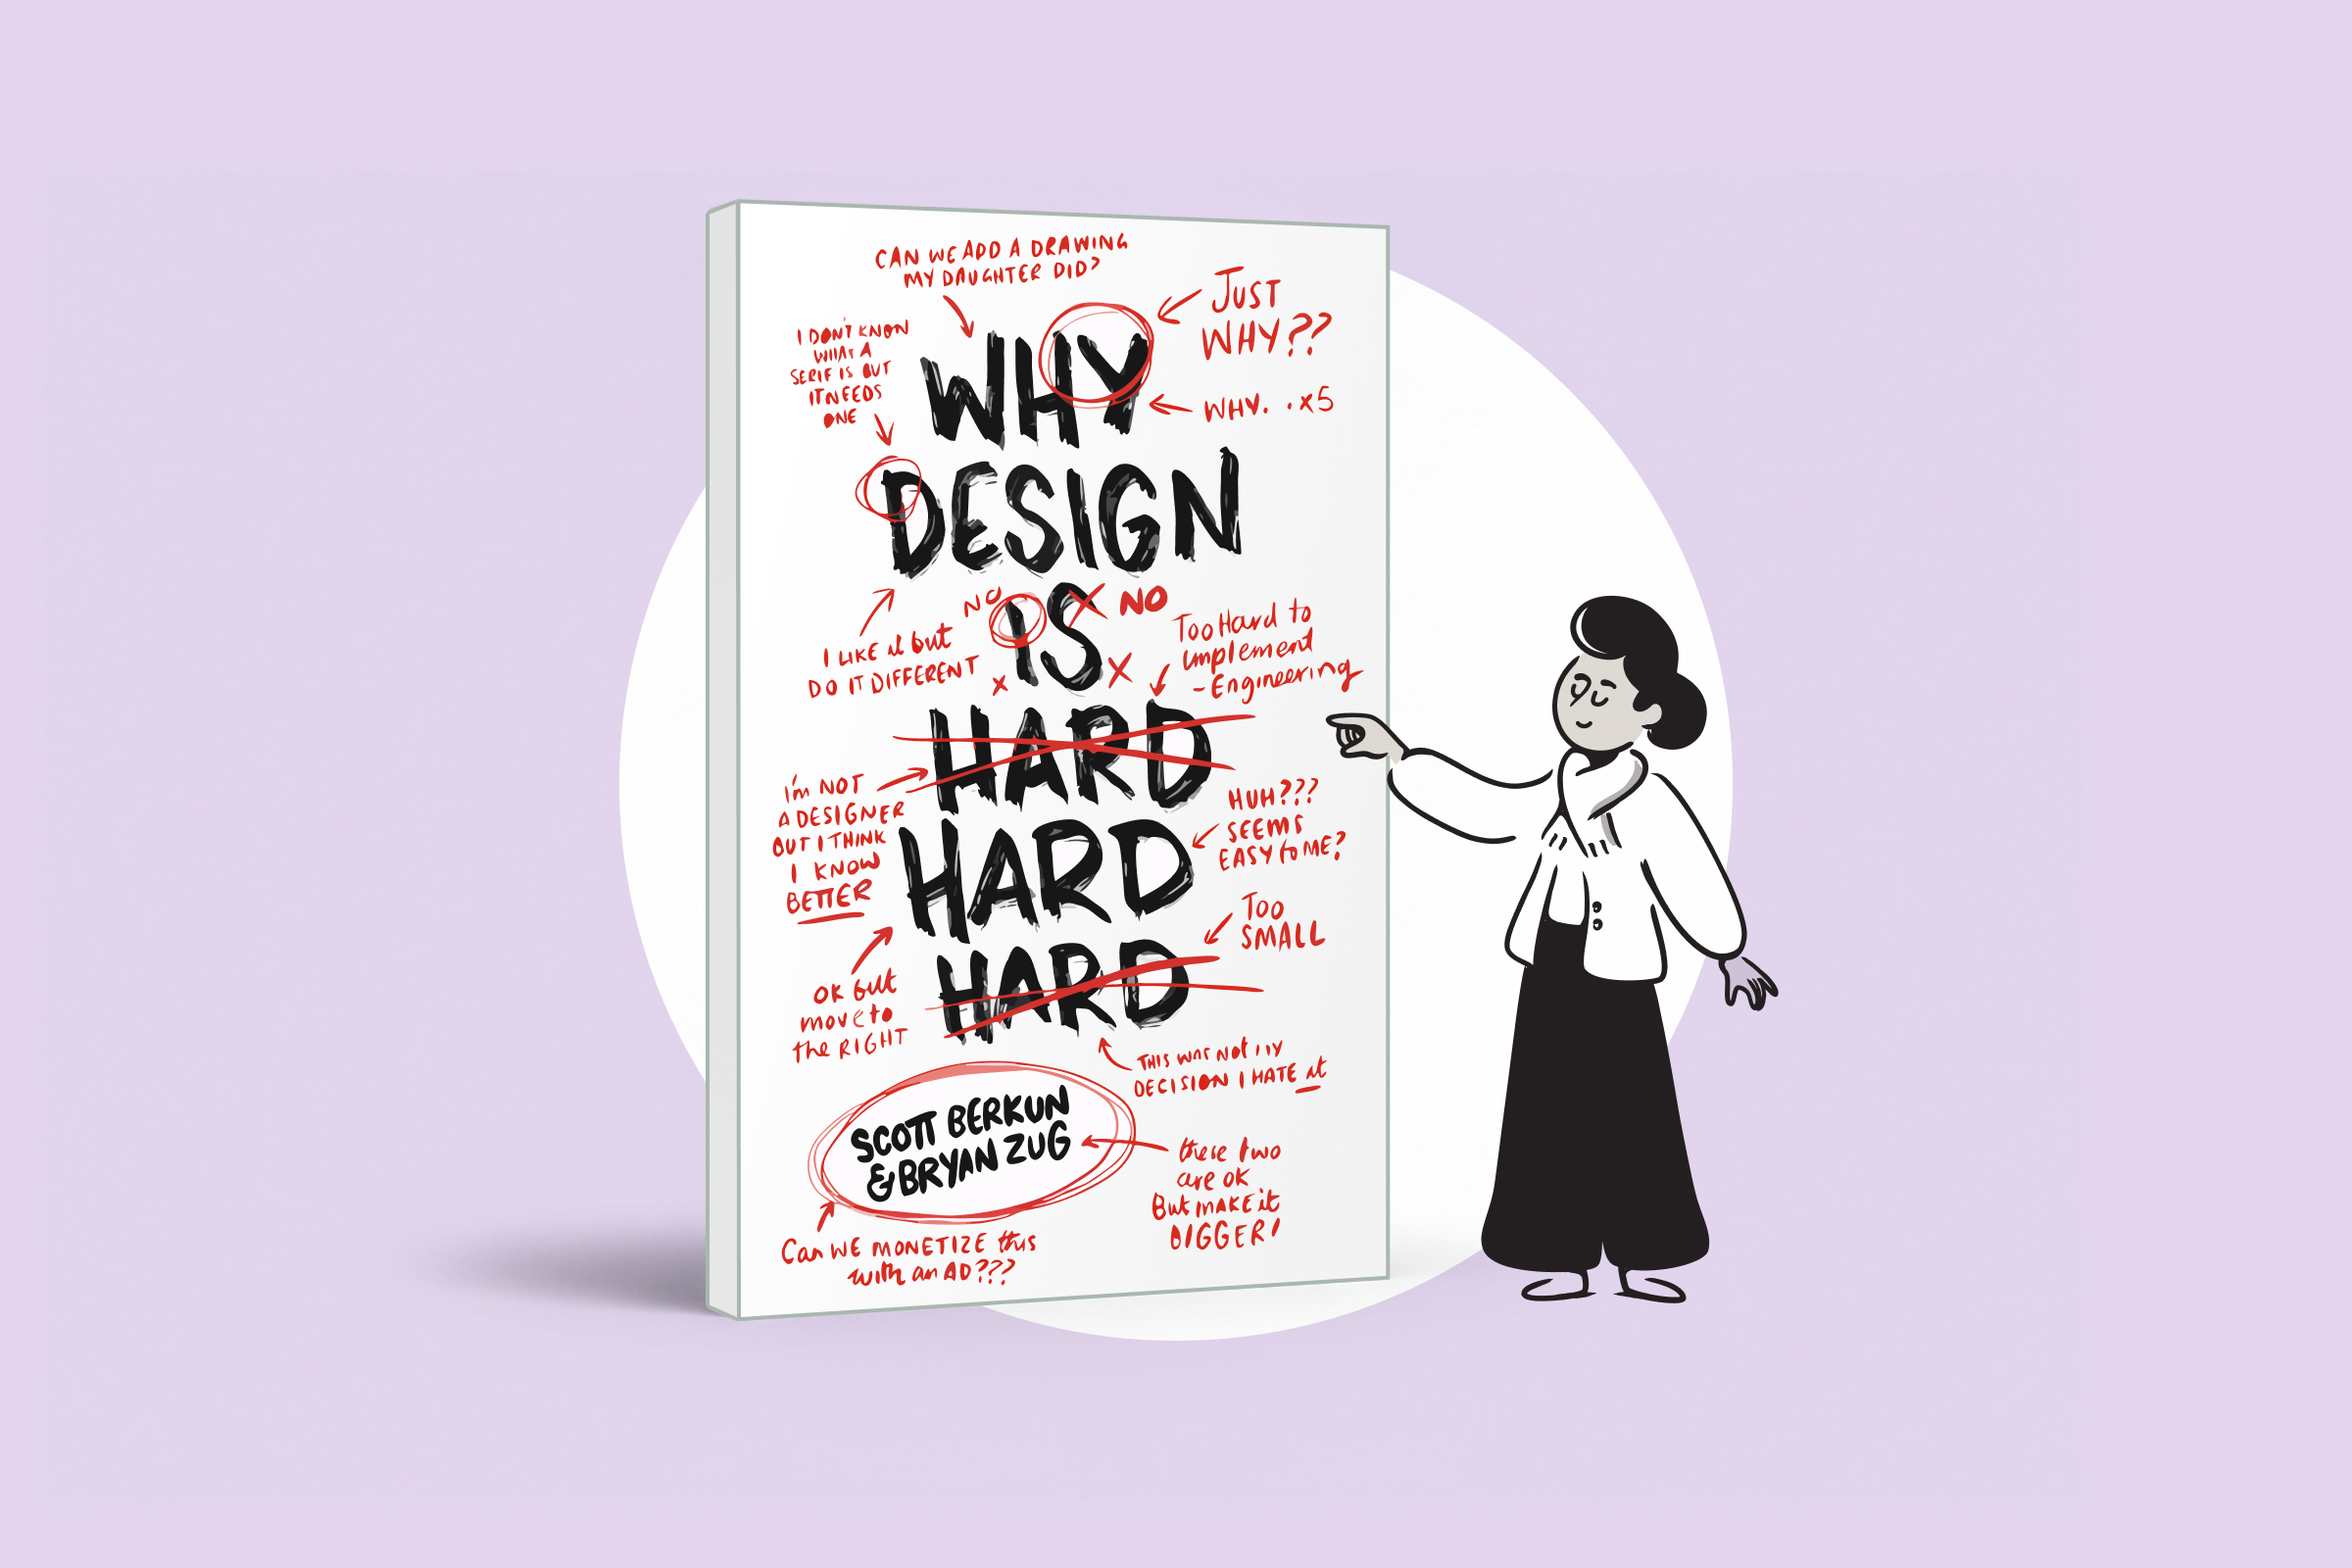
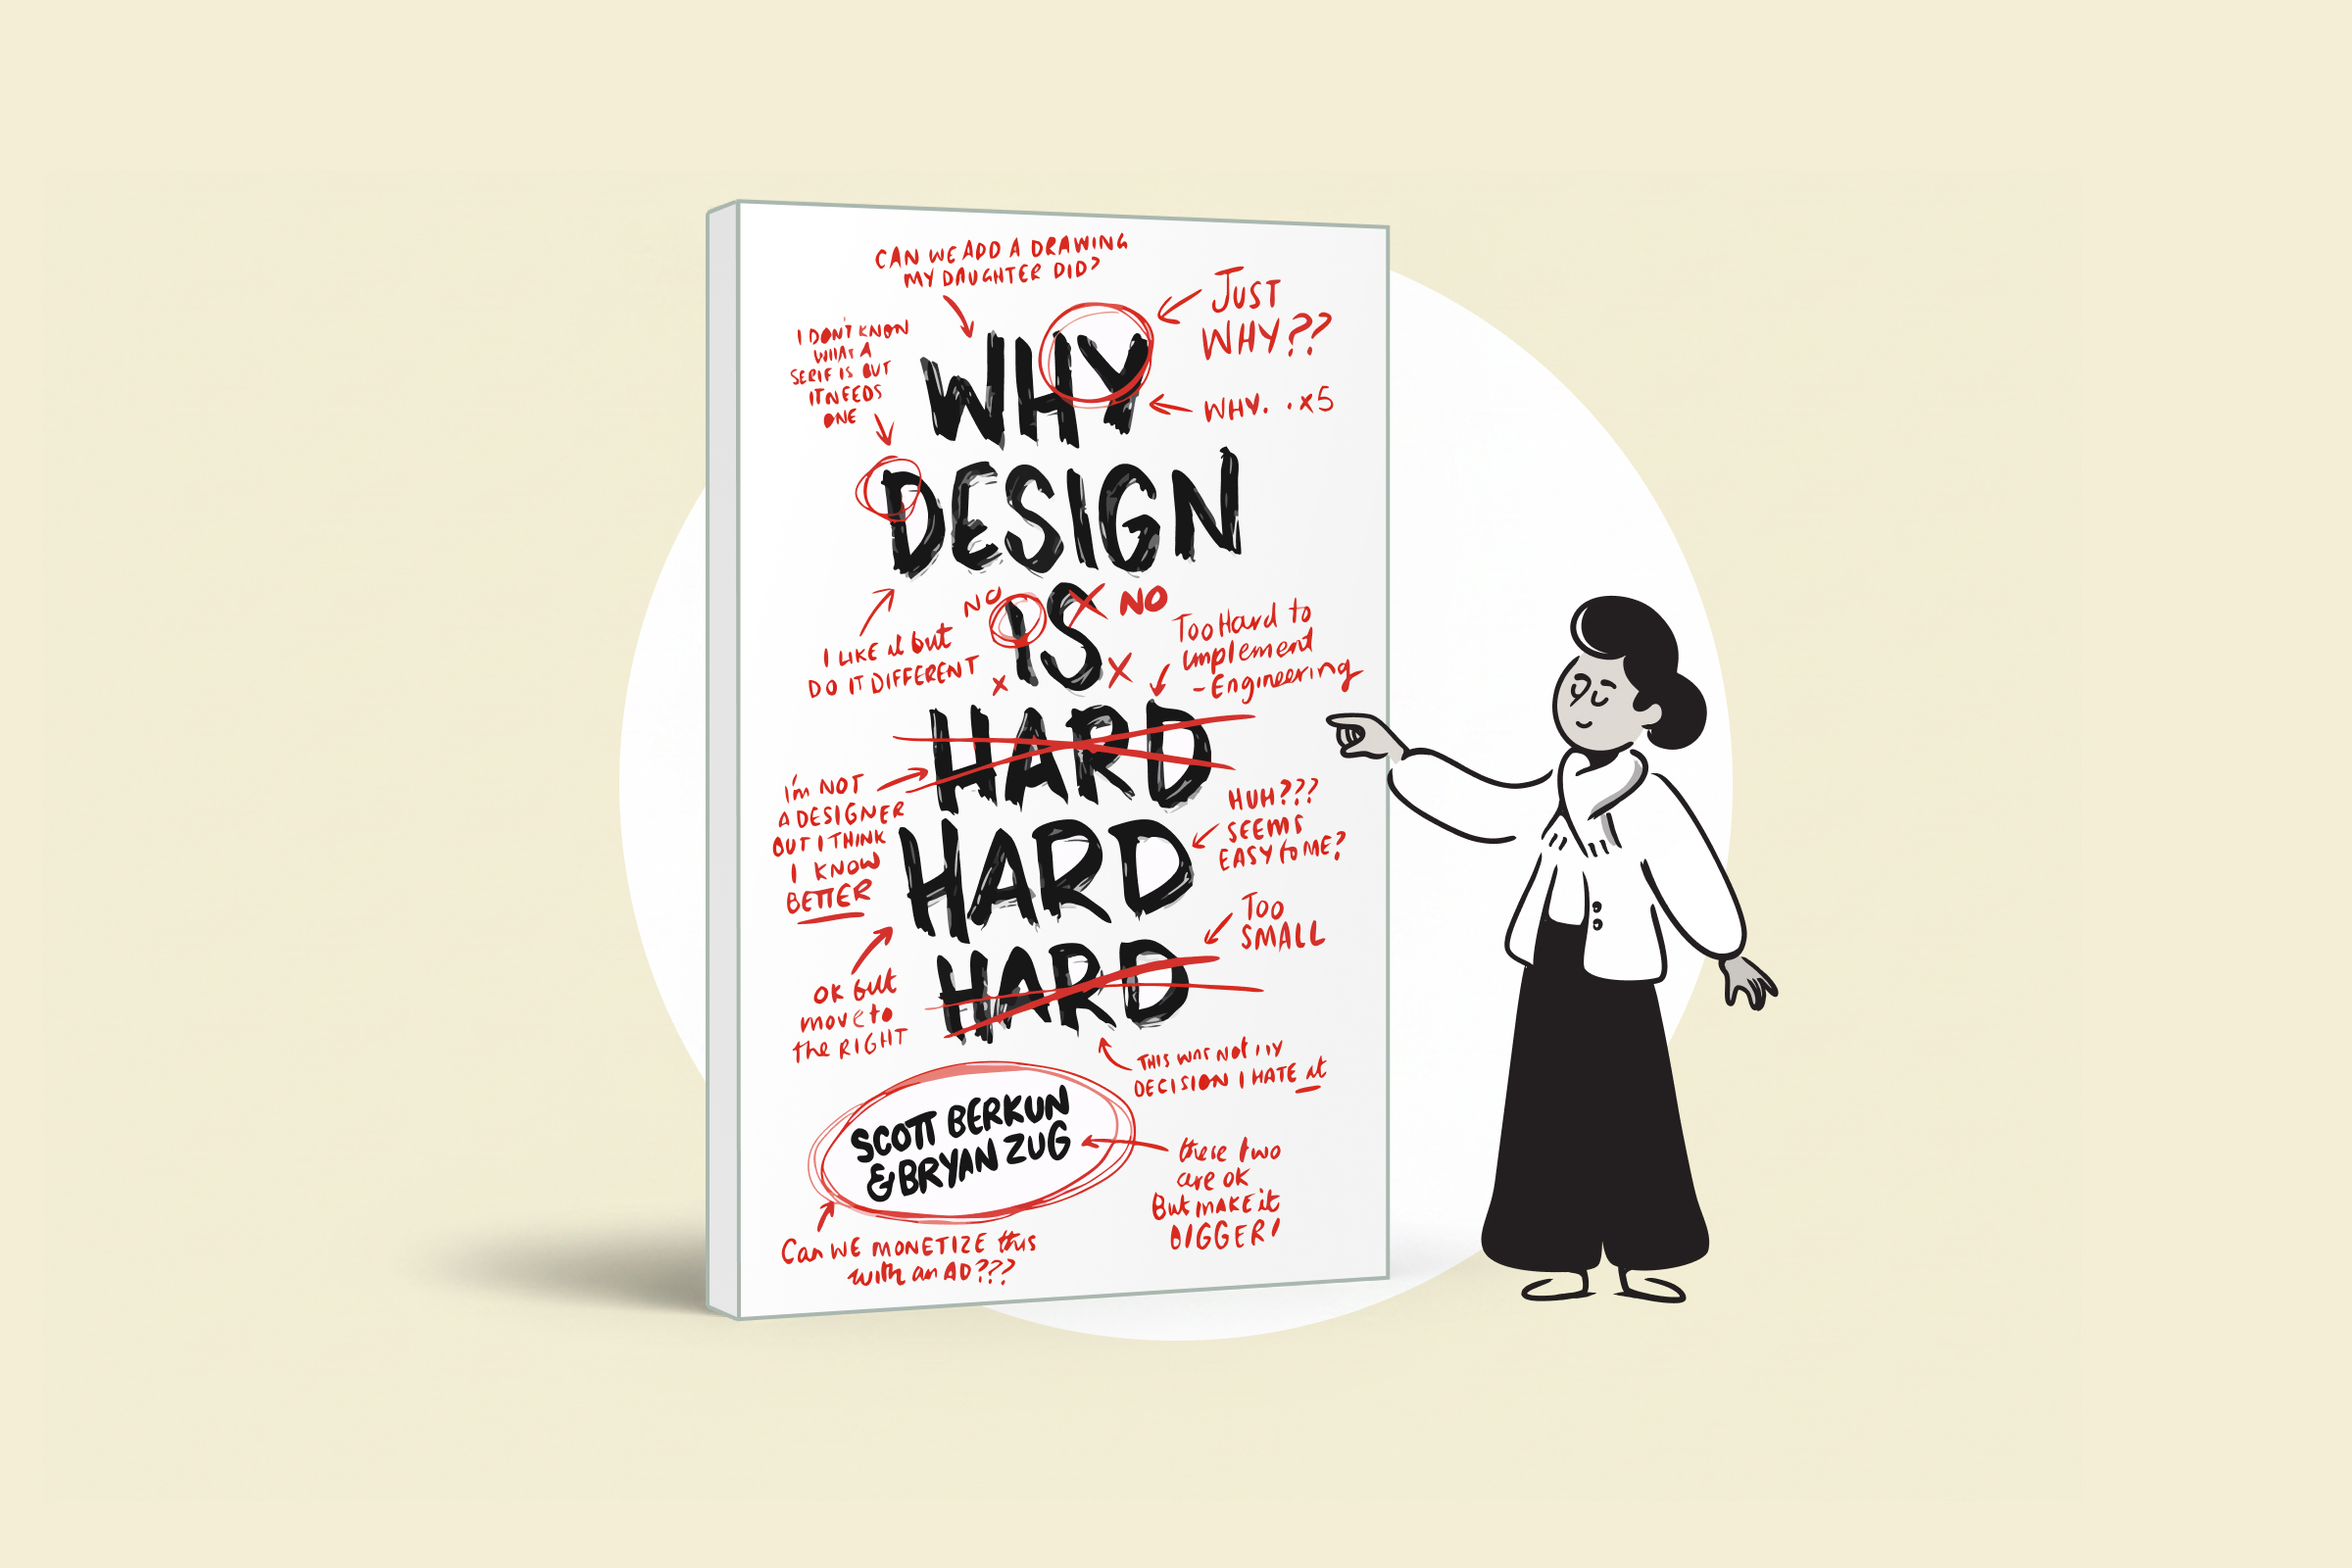
Copy edits and better images. Also fixed Android nav bug.

diff --git a/src/app/globals.css b/src/app/globals.css
@@ -671,6 +671,16 @@ nav.site-nav-bar {
   margin: 0 0 2rem 0;
   border-bottom: 1px solid #b7ddc8;
   overflow-x: auto;
+  /* `overflow-x: auto` promotes `overflow-y` from `visible` to `auto`
+     per the CSS overflow spec, and the active-tab underline
+     pseudo-element (`bottom: -1px; height: 3px`) intentionally
+     protrudes 1px below the link — enough for Chrome mobile touch
+     scroll heuristics to register a scrollable vertical axis and
+     allow a few-pixel finger drag. Locking overflow-y to hidden
+     clips only the padding-box; the border-bottom sits outside it,
+     so the intentional 1px overlap between underline and border
+     still renders identically. */
+  overflow-y: hidden;
   -webkit-overflow-scrolling: touch;
   scrollbar-width: none;
 }

diff --git a/src/app/articles/[slug]/page.tsx b/src/app/articles/[slug]/page.tsx
@@ -32,6 +32,7 @@ export const revalidate = 3600;
 // past the first three serve as backfill when the current article is
 // itself one of the picks (so the rail always shows three cards).
 const TOP_ARTICLE_SLUGS = [
+  'books-designers-hard-problems',
   'hard-problems-explained',
   'use-a-spreadsheet-to-choose-your-next-role',
   'join-nonprofit-board-or-advisory-group',

diff --git a/content/articles/why-design-is-hard.md b/content/articles/why-design-is-hard.md
@@ -1,5 +1,5 @@
 ---
-title: '_Why Design is Hard_ by Scott Berkun and Bryan Zug'
+title: '_Why Design Is Hard_ by Scott Berkun and Bryan Zug'
 slug: 'why-design-is-hard'
 
 excerpt: "A sharp, practical guide to thriving as a designer inside any organization, with particular resonance for those working on society's toughest challenges."
@@ -8,7 +8,7 @@ author: 'Daniel Burka'
 authorSlug: 'daniel-burka'
 
 publishedAt: '2026-08-11'
-updatedAt: '2026-08-11'
+updatedAt: '2026-08-12'
 
 status: 'published' # draft | review | published
 
@@ -25,48 +25,52 @@ people:
   - Scott Berkun
   - Bryan Zug
 
-readingTime: 4
+readingTime: 5
 
 featured: false
 
 image: '/images/content/thumb-why-design-is-hard.jpg'
-imageAlt: 'Cover of Why Design is Hard by Scott Berkun and Bryan Zug'
+imageAlt: 'Cover of Why Design Is Hard by Scott Berkun and Bryan Zug'
 
-seoTitle: 'Why Design is Hard by Scott Berkun and Bryan Zug — A Book Review'
-seoDescription: "Scott Berkun and Bryan Zug's Why Design is Hard is a short, sharp guide to building the influence designers need to ship great work — especially in organizations tackling hard problems."
+seoTitle: 'Why Design Is Hard by Scott Berkun and Bryan Zug — A Book Review'
+seoDescription: "Scott Berkun and Bryan Zug's Why Design Is Hard is a short, sharp guide to building the influence designers need to ship great work — especially in organizations tackling hard problems."
 
 canonicalUrl: ''
 ---
 
-# _Why Design is Hard_ by Scott Berkun and Bryan Zug {#why-design-is-hard}
+# _Why Design Is Hard_ by Scott Berkun and Bryan Zug {#why-design-is-hard}
 
 _A sharp, practical guide to thriving as a designer inside any organization, with particular resonance for those working on society's toughest challenges._{.intro}
 
-![Cover of Why Design is Hard by Scott Berkun and Bryan Zug](/images/content/illustration-book-why-design-is-hard-inline.jpg){.float-right}
+![Cover of Why Design Is Hard by Scott Berkun and Bryan Zug](/images/content/illustration-book-why-design-is-hard-inline.jpg){.float-right}
 
-Books should get more credit for being short and to-the-point. I flew through _[Why Design is Hard](https://scottberkun.com/why-design-is-hard/)_ in just two days. It packs a lot of great advice into 100 pages.
+Books should get more credit for being short and to the point. I flew through _[Why Design Is Hard](https://scottberkun.com/why-design-is-hard/)_ in just two days. It packs a lot of great advice into 100 pages.
 
-As you probably have already figured out in your design career, creating great designs is a surprisingly small part of the job. You can create excellent solutions, but if you don't have the influence and buy-in within your organization to ship those designs, it hardly matters. The authors do a great job breaking down where influence comes from in many organizations and how you can build up your own power to ship great design work.
+As you probably have already figured out in your design career, creating great designs is a surprisingly small part of the job. You can create excellent solutions, but if you don't have the influence and buy-in within your organization to ship, it hardly matters. The authors of _Why Design Is Hard_ do a great job breaking down where true influence comes from in many organizations and how you can build up your own power to ship great design work.
 
 ## Selling good design is important {#selling-good-design-is-important}
 
-The authors make a strong case that selling your design work is part of the design process. You might come up with the perfect solution in 10 minutes, but you'll likely spend the next 2 months getting everyone to agree that it's the right solution. To be a great designer, you need to be good at selling your work and you need to be excellent at working cross-functionally with everyone else in your organization to do great design work together.
+The authors make a strong case that selling your design work is part of the design process. You might come up with the perfect solution in 10 minutes, but you'll spend the next two months getting everyone to agree that it's the right direction. To be a great designer, you need to be good at selling your work and you need to be excellent at working cross-functionally with everyone else in your organization. You'll do great design work together.
 
 The book also smartly makes a strong case for designers to leverage their skills as facilitators and prototypers to sell design and build design within their teams.
 
-This matters in all organizations, but selling your design work is particularly important in organizations that work on thorny problems like climate change and healthcare. In these situations, you will work with many people who don't understand design and it is part of your job as a designer to explain why your design will work better to achieve the organization's aims. In my experience, this "selling good design" effort will take a lot of your time and will, in the end, pay off in spades.
+This matters in all organizations, but selling your design work is particularly important on teams that work on thorny problems like climate change and healthcare. You will work with many people who don't understand design and it is part of your job to explain why better user-centered design will achieve the organization's aims. In my experience, this "selling good design" effort will take a lot of your time and will, in the end, pay off in spades.
 
-For example, if you are on a team working on a public health program, there is a strong chance that few of your colleagues will understand why human-centered design is important. A lot of government officials or public health experts will jump to technical solutions. It's up to you to bring the voice of real users to the table and to advocate for their needs. It's up to you to show how design will benefit those users… and ultimately how this will benefit the overall health program. When you work on hard problems, this is all foundational to the designer's job.
+For example, if you are on a team working on a public health program, there is a strong chance that few of your colleagues will understand why human-centered design is important. A lot of government officials or public health experts will jump to technical solutions. When I was working in Ethiopia, the public health team wanted to collect data across many demographics (sex, age, rural/urban, etc.) at each patient visit. This made sense to health officials sitting in the capital city, Addis Ababa. But in rural primary care clinics, this decision would have been an enormous burden on busy nurses. I was able to show the public health officials how their data requirements would actually result in a lengthy form in the software, then showed them an alternative solution that had less data (but really captured the most important information) but which took one-third of the time for healthcare workers. In the end, as a team, we shipped the simpler solution.
 
-## Know your powers {#know-your-powers}
+It's up to you to bring the voice of real users to the table and to advocate for their needs. It's up to you to show how design will benefit those users… and ultimately how this will benefit the overall goals.
 
-This was my favorite part of the book. The authors look at where power lies in most organizations. For instance, generalists hold a lot of power. The CEO has the most responsibility (and the highest paycheck) because she has to know a lot about a lot of areas. To build your power as a designer, it certainly helps to grow your experience outside of design so you can collaborate better with everyone else.
+## Know your power {#know-your-power}
 
-For instance, I spent the last 8 years working in global public health. I am not an epidemiologist and I don't have an MPH (Masters in Public Health), but I did pick up a lot of knowledge about how public health programs run, how chronic disease programs get managed by governments, and how health technologies are developed. All of those skills significantly increased my power to ship top-tier design in a challenging environment.
+This was my favorite part of the book. The authors look at where power lies in most organizations and how you can use power to drive more user-centric decision-making.
+
+For instance, generalists hold a lot of power. The CEO has the most responsibility (and the highest paycheck) because she has to know a lot about a lot of areas. To build your power as a designer, it certainly helps to grow your experience outside of design so you can collaborate better with everyone else.
+
+This rings true in my experience. I spent the last 8 years working in global public health. I am not an epidemiologist and I don't have an MPH (Masters in Public Health), but I did pick up a lot of knowledge about how public health programs run, how chronic disease programs get managed by governments, and how health technologies are developed. All of those skills significantly increased my power to ship top-tier design in a challenging environment.
 
 ![A simple sketch showing the overlap between designer and product manager decisions, with real power sitting at the intersection](/images/content/illustration-designer-pm-design-decisions.png){.normal-width}
 
-I particularly love this simple sketch about where real power lies in between product managers and designers. Most senior designers that I know have gravitated towards product roles in order to be closer to where real power lives on their teams.
+I particularly love this simple sketch from the book that shows where real power lies in between product managers and designers. Many senior designers that I know have gravitated towards product roles in order to be closer to where decision-making actually happens on their teams.
 
 ## Be a connector {#be-a-connector}
 
@@ -76,6 +80,6 @@ Creating connections is a powerful function on teams where people have really di
 
 ## Short and sweet {#short-and-sweet}
 
-I'll keep this book review pithy because the book itself is short-and-sweet. I highly recommend that you pick up a copy of _[Why Design is Hard](https://scottberkun.com/why-design-is-hard/)_ and implement the good ideas to benefit your own career.
+I'll keep this book review pithy because the book itself is short-and-sweet. I highly recommend that you pick up a copy of _[Why Design Is Hard](https://scottberkun.com/why-design-is-hard/)_ and implement the good ideas to benefit your own career.
 
 <a class="black-button" href="https://scottberkun.com/why-design-is-hard/">Where to buy the book <span aria-hidden="true">→</span></a>
